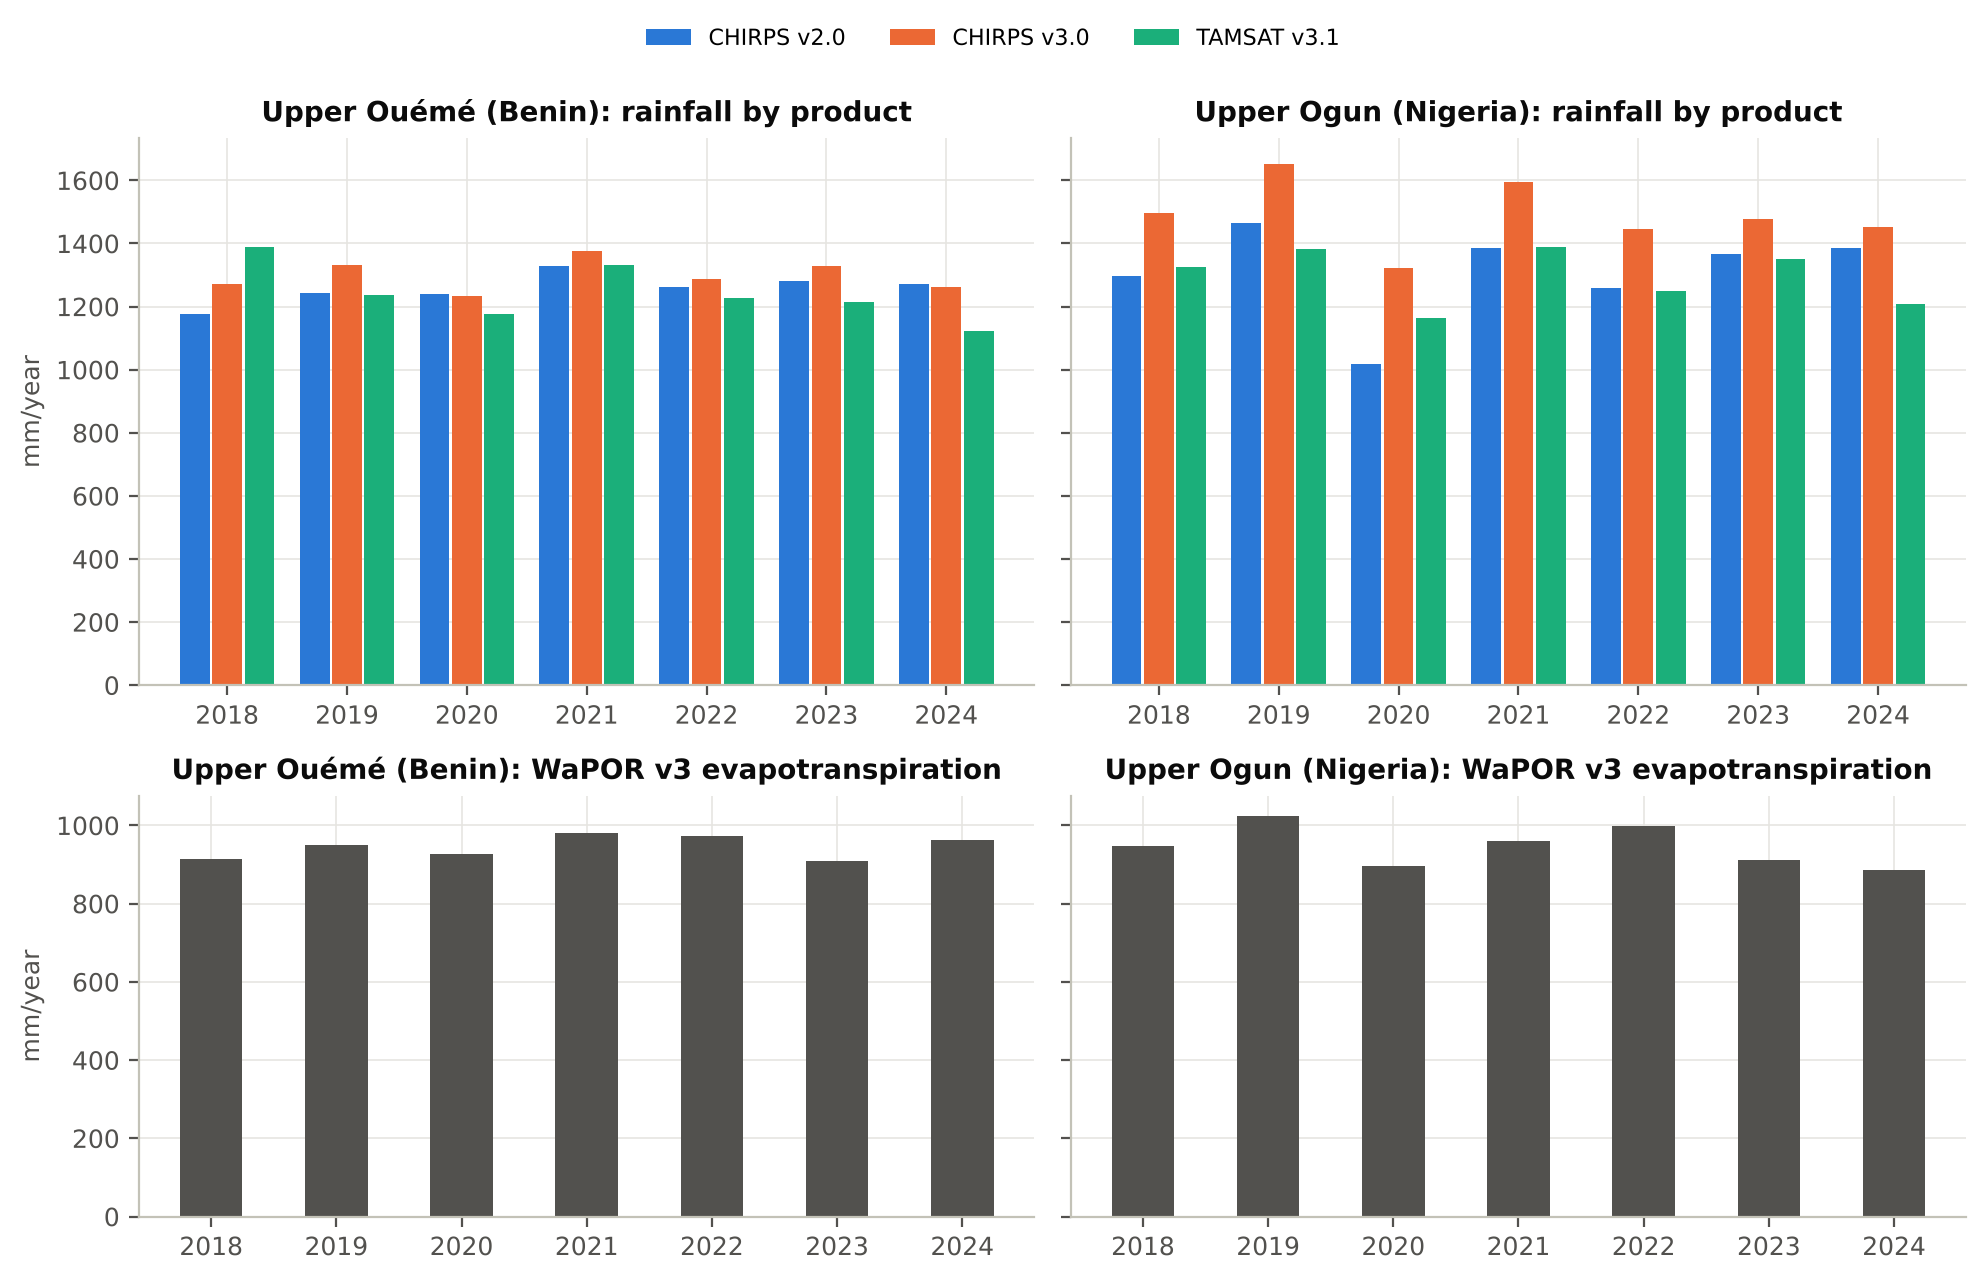
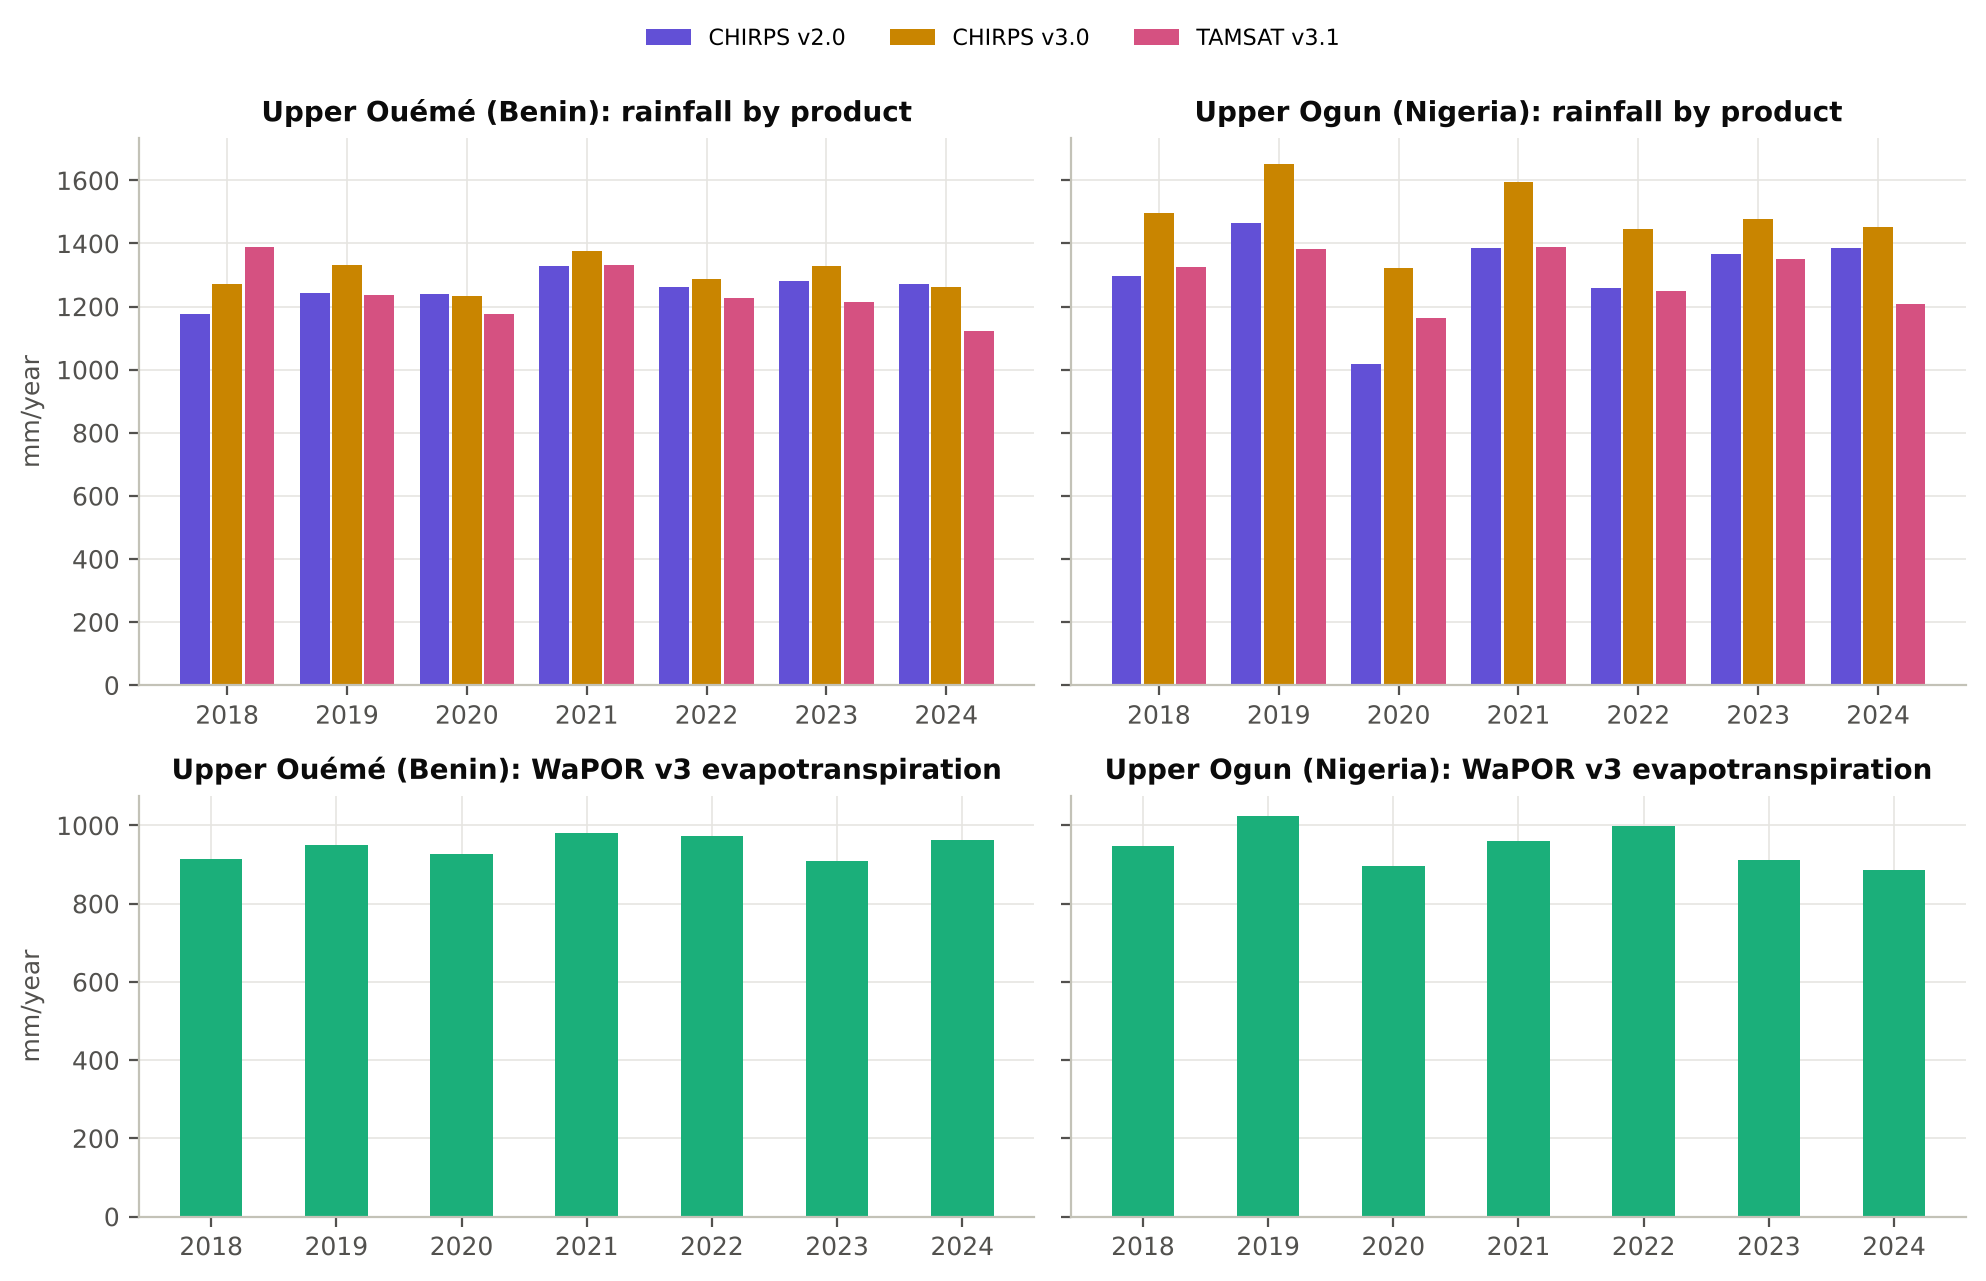
Use the web palette in the report figures and add the runoff-ratio figure
The rainfall products, evapotranspiration and the diverging map ramp now
have the same colours in the figures as on the web page. A new figure
shows the residual against the assumed runoff ratio.

diff --git a/scripts/05_figures.py b/scripts/05_figures.py
@@ -1,7 +1,8 @@
 """Report figures, drawn only from outputs/ (produced by 03_analysis.py).
 
-Colour roles (validated, light mode): rainfall products CHIRPS v2.0 = blue, CHIRPS v3.0 = orange,
-TAMSAT v3.1 = aqua. ET is a single series in neutral ink. Catchments are identified by labels.
+Colour roles, the same as the web version (checked for colour-vision deficiency, light mode):
+CHIRPS v2.0 = violet, CHIRPS v3.0 = amber, TAMSAT v3.1 = pink; evapotranspiration = green.
+Catchments are identified by labels.
 """
 
 from __future__ import annotations
@@ -27,7 +28,8 @@ from recharge.rasters import load_subset  # noqa: E402
 OUT = ROOT / "figures"
 OUT.mkdir(exist_ok=True)
 
-BLUE, ORANGE, AQUA = "#2a78d6", "#eb6834", "#1baf7a"
+BLUE, ORANGE, AQUA = "#6250d6", "#c98500", "#d55181"  # CHIRPS v2.0, CHIRPS v3.0, TAMSAT v3.1
+GREEN = "#1baf7a"  # evapotranspiration
 INK, INK2, GRID, MUTED, FILL = "#0b0b0b", "#52514e", "#e6e5e1", "#c3c2b7", "#f5f4f1"
 PROD = {"chirps2": ("CHIRPS v2.0", BLUE, "o"), "chirps3": ("CHIRPS v3.0", ORANGE, "D"), "tamsat": ("TAMSAT v3.1", AQUA, "s")}
 BASIN_SHORT = {"upper_oueme": "Upper Ouémé (Benin)", "upper_ogun": "Upper Ogun (Nigeria)"}
@@ -73,7 +75,7 @@ def fig_rainfall_context():
     for ax, b in zip(axes, BIDS):
         s = lt[lt.basin_id == b]
         lo, hi = summary["basins"][b]["baseline_terciles_chirps2_mm"]
-        ax.bar(s.year, s.p_chirps2_mm, color=[BLUE if y >= 2018 else "#9ec5f4" for y in s.year], width=0.8,
+        ax.bar(s.year, s.p_chirps2_mm, color=[BLUE if y >= 2018 else "#cbc5f2" for y in s.year], width=0.8,
                label="CHIRPS v2.0 (2018–2024 darker)")
         ax.plot(s.year, s.p_chirps3_mm, color=ORANGE, linewidth=2, marker="D", ms=3, label="CHIRPS v3.0")
         ax.axhline(hi, color=INK2, linestyle="--", linewidth=0.9, label=f"Upper tercile 1991–2020 (v2.0): {hi:,.0f} mm")
@@ -99,7 +101,7 @@ def fig_annual_balance():
             axes[0, j].bar(x + (i - 1) * w, s[f"p_{k}_mm"], w * 0.92, color=col, label=lab)
         axes[0, j].set_title(f"{BASIN_SHORT[b]}: rainfall by product")
         axes[0, j].set_xticks(x, s.year.astype(int))
-        axes[1, j].bar(x, s.et_wapor_mm, 0.5, color=INK2)
+        axes[1, j].bar(x, s.et_wapor_mm, 0.5, color=GREEN)
         axes[1, j].set_title(f"{BASIN_SHORT[b]}: WaPOR v3 evapotranspiration")
         axes[1, j].set_xticks(x, s.year.astype(int))
     axes[0, 0].set_ylabel("mm/year"); axes[1, 0].set_ylabel("mm/year")
@@ -110,7 +112,8 @@ def fig_annual_balance():
 
 
 def diverging_cmap():
-    return LinearSegmentedColormap.from_list("rb", ["#b8302f", "#e34948", "#f0efec", BLUE, "#184f95"])
+    # the same ramp as the web maps: red-brown below zero, neutral grey at zero, blue above
+    return LinearSegmentedColormap.from_list("rb", ["#7a2e0e", "#c0623a", "#ecebe8", "#5598e7", "#0d366b"])
 
 
 def fig_maps():
@@ -175,7 +178,7 @@ def fig_residual_vs_recharge():
     c = summary["closure_upper_oueme_2018_2024"]
     refs = summary["published_recharge_fraction"]
     fig, ax = plt.subplots(figsize=(8.2, 2.9))
-    rows = ["Closure residual, this study\n(2018–2024 mean, three rainfall products)",
+    rows = ["Residual, this study\n(2018–2024 mean, three rainfall products)",
             "Recharge, Kamagaté et al. (2007)\nDonga sub-basin, 2 years of water-table data",
             "Recharge, Kotchoni et al. (2019)\nweathered crystalline aquifer, 19–25-year records"]
     lo, hi = refs["kamagate2007"]
@@ -188,10 +191,30 @@ def fig_residual_vs_recharge():
     ax.set_yticks([2, 1, 0]); ax.set_yticklabels(rows, fontsize=8); ax.set_ylim(-0.6, 2.6)
     ax.set_xlim(0, 26); ax.set_xlabel("% of annual rainfall"); ax.grid(axis="y", visible=False)
     ax.legend(loc="upper center", bbox_to_anchor=(0.32, -0.3), ncol=3, fontsize=7.5)
-    ax.set_title("Upper Ouémé: the closure error is as large as published recharge", loc="left")
+    ax.set_title("Upper Ouémé: the residual is as large as published recharge", loc="left")
     fig.tight_layout(); fig.savefig(OUT / "fig6_residual_vs_recharge.png"); plt.close(fig)
+
+
+def fig_runoff_ratio():
+    """Upper Ouémé: mean 2018-2024 residual against the runoff ratio used to estimate river flow."""
+    sens = summary["runoff_ratio_sensitivity"]
+    r = np.array(sens["ratio"])
+    (b0, b1), (d0, d1) = sens["reference_ratios"]["beterou_1971_2010"], sens["reference_ratios"]["donga_single_years_kamagate2007"]
+    fig, ax = plt.subplots(figsize=(7.4, 3.8))
+    ax.axvspan(d0, d1, color=FILL, label="Single-year ratios, Donga sub-basin (Kamagaté et al., 2007)")
+    ax.axvspan(b0, b1, color=MUTED, label="Ratios observed at Bétérou, 1971–2010")
+    for k, (pl, col, mk) in PROD.items():
+        ax.plot(r, sens["mean_residual_mm"][k], color=col, linewidth=2, label=pl)
+        need = summary["closure_upper_oueme_2018_2024"][k]["runoff_ratio_needed"]
+        ax.plot(need, 0, marker=mk, ms=6, color=col, linestyle="none")
+    ax.axhline(0, color=INK2, linewidth=0.8)
+    ax.set_xlabel("Runoff ratio r"); ax.set_ylabel("Mean residual, mm/year")
+    ax.legend(loc="upper right", fontsize=7.5)
+    ax.set_title("Upper Ouémé: the residual depends on the assumed runoff ratio", loc="left")
+    fig.tight_layout(); fig.savefig(OUT / "fig7_runoff_ratio.png"); plt.close(fig)
 
 
 if __name__ == "__main__":
     fig_study_area(); fig_rainfall_context(); fig_annual_balance(); fig_maps(); fig_closure(); fig_residual_vs_recharge()
+    fig_runoff_ratio()
     print("figures written:", sorted(p.name for p in OUT.glob("*.png")))
